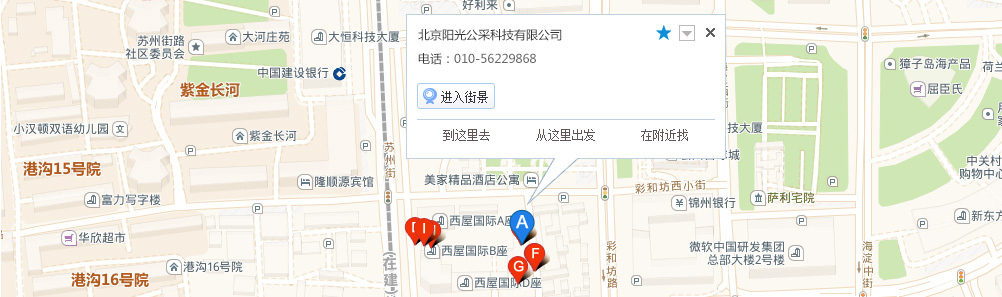
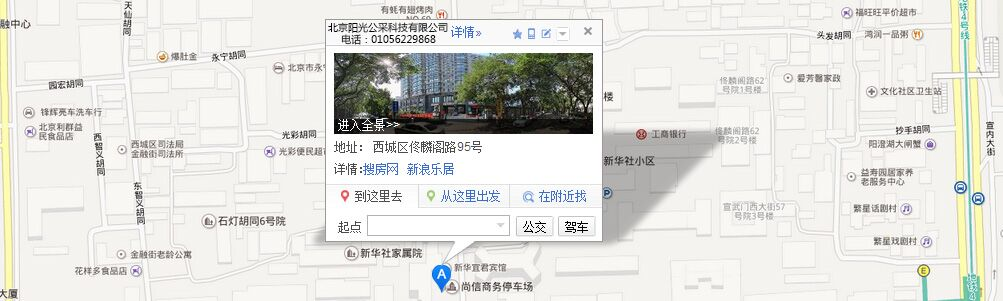
更改地图

diff --git a/public/gywm.html b/public/gywm.html
@@ -115,7 +115,7 @@
     <div class="tagContent dn" id="tagContent2">
     	<div class="sublist">
       	<div><img src="/assets/dt_03.jpg" width="1002" height="297" /></div>
-				<p class="tein">地  址：北京市海淀区苏州街西屋国际F座302室</p>
+				<p class="tein">地  址：西城区佟麟阁路95号尚信大厦10层</p>
         <p class="tein">邮  箱：yggc@sinopr.org</p>
         <p class="tein">电  话：010-56229868</p>
 			</div><!--tabcon end-->
